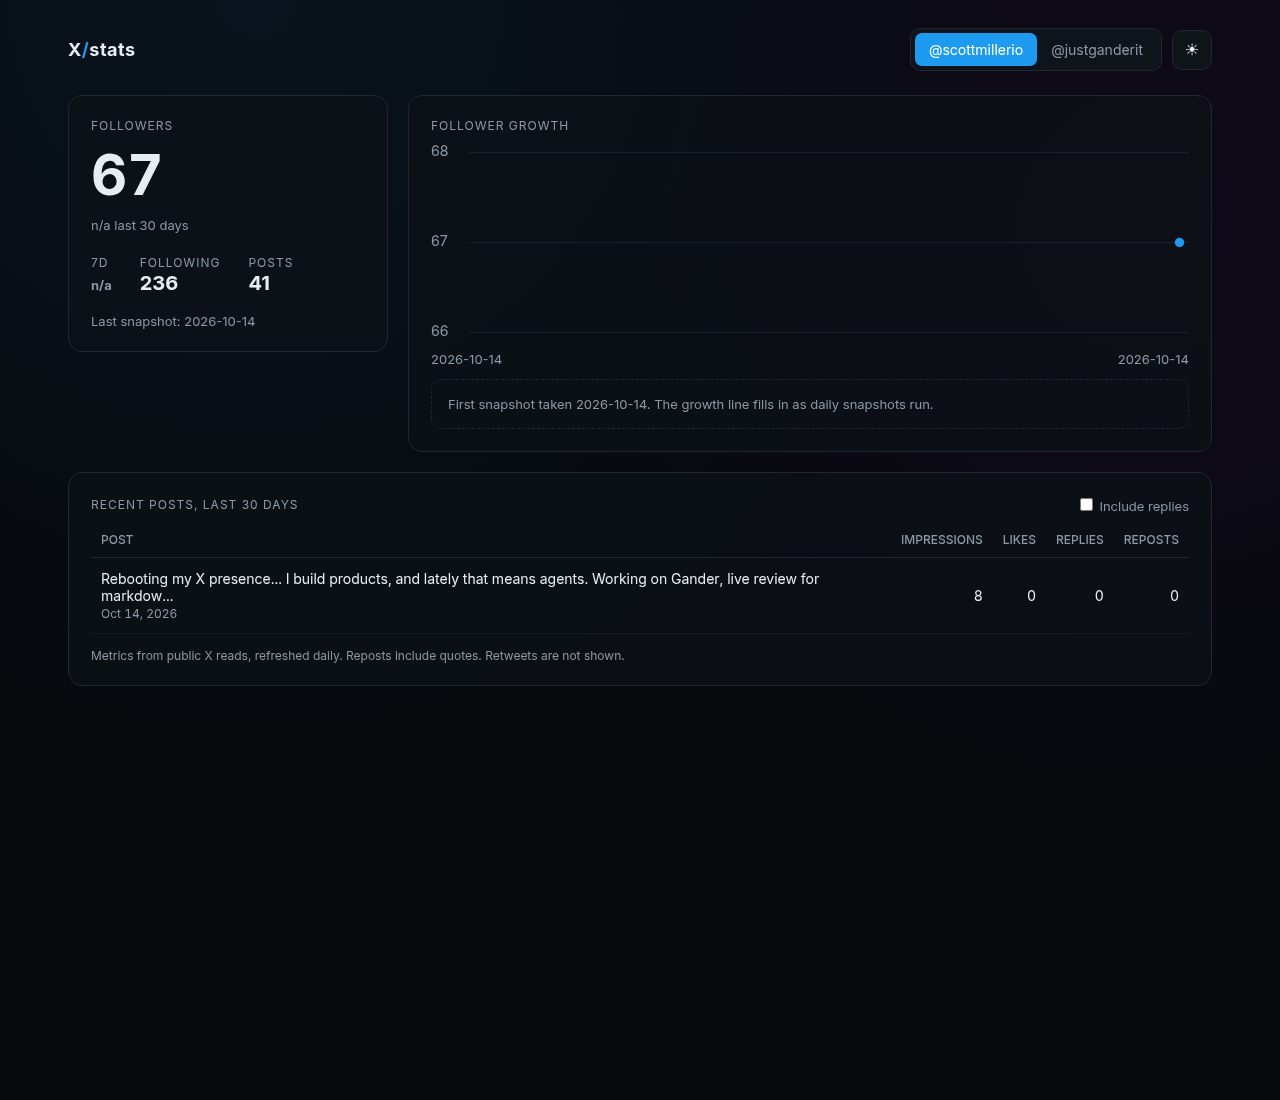
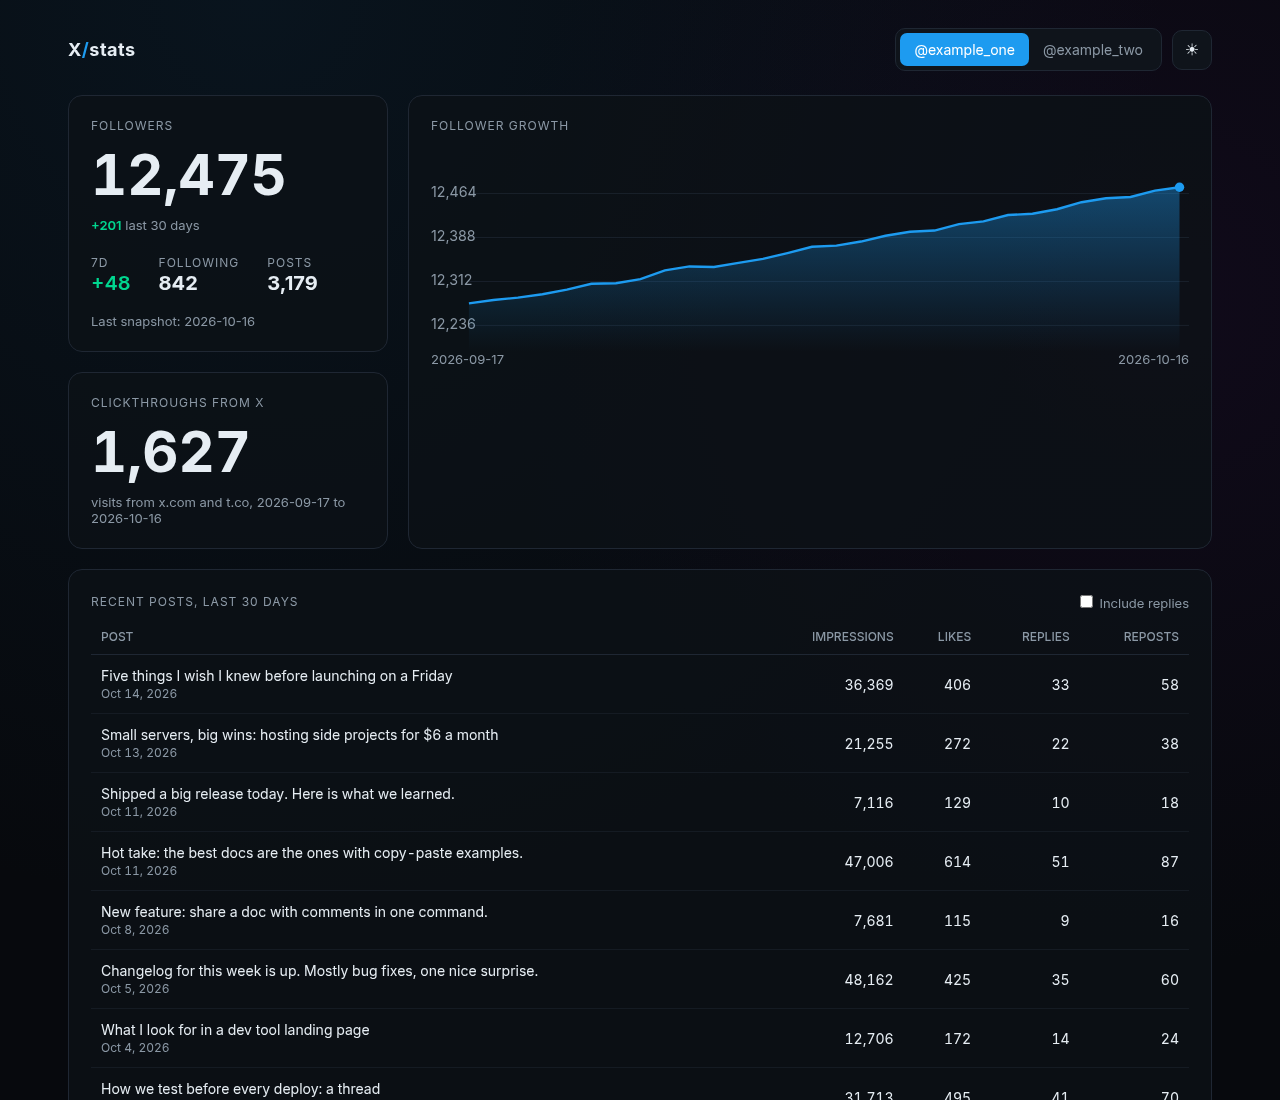
README: use fake demo data for examples and screenshots; add seed script

diff --git a/scripts/seed.py b/scripts/seed.py
@@ -1,0 +1,68 @@
+#!/usr/bin/env python3
+"""Generate fake snapshot files for demos and screenshots.
+
+Usage: scripts/seed.py OUTDIR [DAYS]
+Writes OUTDIR/YYYY-MM-DD.json for the last DAYS days (default 30), ending today.
+All accounts, numbers and post text are made up.
+"""
+import json, os, random, sys
+from datetime import date, datetime, timedelta, timezone
+
+out = sys.argv[1]
+days = int(sys.argv[2]) if len(sys.argv) > 2 else 30
+os.makedirs(out, exist_ok=True)
+random.seed(42)
+
+ACCOUNTS = {
+    "example_one": {"id": "1001", "name": "Example One", "followers": 12269, "following": 842, "tweets": 3150, "growth": 7},
+    "example_two": {"id": "1002", "name": "Example Two", "followers": 1840, "following": 310, "tweets": 620, "growth": 3},
+}
+TEXTS = [
+    "Shipped a big release today. Here is what we learned.",
+    "How we test before every deploy: a thread",
+    "New feature: share a doc with comments in one command.",
+    "What I look for in a dev tool landing page",
+    "Small servers, big wins: hosting side projects for $6 a month",
+    "Hot take: the best docs are the ones with copy-paste examples.",
+    "We cut our build time in half. The fix was boring.",
+    "Five things I wish I knew before launching on a Friday",
+    "@someone Agreed, that is the part most teams skip.",
+    "Changelog for this week is up. Mostly bug fixes, one nice surprise.",
+]
+
+today = date.today()
+start = today - timedelta(days=days - 1)
+# Posts spread over the window; metrics grow after posting, then flatten.
+posts = {h: [] for h in ACCOUNTS}
+pid = 1900000000000000000
+for h in ACCOUNTS:
+    for i in range(14):
+        pid += random.randint(10**12, 10**13)
+        when = datetime.combine(start + timedelta(days=random.randint(0, days - 1)), datetime.min.time(), timezone.utc) + timedelta(hours=random.randint(13, 23))
+        scale = 1.0 if h == "example_one" else 0.2
+        posts[h].append({"id": str(pid), "text": TEXTS[(i + len(h)) % len(TEXTS)], "created": when,
+                         "peak": int(random.randint(2000, 50000) * scale), "lr": random.uniform(0.008, 0.02)})
+
+for n in range(days):
+    d = start + timedelta(days=n)
+    end_of_day = datetime.combine(d, datetime.max.time(), timezone.utc)
+    bundle = {"date": d.isoformat(), "accounts": {}}
+    for h, a in ACCOUNTS.items():
+        followers = a["followers"] + a["growth"] * n + random.randint(-3, 6)
+        ps = []
+        for p in posts[h]:
+            if p["created"] > end_of_day:
+                continue
+            age = (end_of_day - p["created"]).days + 1
+            frac = min(1.0, 1 - 0.5 ** age)
+            imp = int(p["peak"] * frac)
+            ps.append({"id": p["id"], "text": p["text"], "created_at": p["created"].strftime("%Y-%m-%dT%H:%M:%S.000Z"),
+                       "public_metrics": {"impression_count": imp, "like_count": int(imp * p["lr"]),
+                                          "reply_count": int(imp * p["lr"] / 12), "retweet_count": int(imp * p["lr"] / 7), "quote_count": 0}})
+        bundle["accounts"][h] = {"user": {"id": a["id"], "username": h, "name": a["name"],
+                                          "public_metrics": {"followers_count": followers, "following_count": a["following"], "tweet_count": a["tweets"] + n}},
+                                 "posts": ps}
+    bundle["clickthroughs"] = {"visits": random.randint(20, 90)}
+    with open(os.path.join(out, d.isoformat() + ".json"), "w") as f:
+        json.dump(bundle, f)
+print(f"wrote {days} files to {out}")

diff --git a/README.md b/README.md
@@ -2,7 +2,7 @@
 
 A small, self-hosted X (Twitter) stats dashboard. Track follower growth and per-post metrics (impressions, likes, replies, reposts) for one or more accounts, with daily history and a per-post drill-in. Ships as a single Go binary.
 
-![Dashboard, dark theme](docs/dark-desktop.png)
+![Dashboard, dark theme, fake demo data](docs/dark-desktop.png)
 
 ## Features
 
@@ -59,6 +59,16 @@ bin/xstats serve  --db data/xstats.db --addr 127.0.0.1:8080
 ```
 
 Open http://127.0.0.1:8080. Handy URL options: `?theme=dark|light`, `?acct=<handle>`, `#post/<id>`.
+
+## Demo with fake data
+
+`scripts/seed.py` writes 30 days of made-up snapshots for two fictional accounts (`example_one`, `example_two`). The screenshots in this README come from it.
+
+```
+scripts/seed.py /tmp/seed 30
+bin/xstats ingest --db /tmp/demo.db /tmp/seed/*.json
+bin/xstats serve  --db /tmp/demo.db --addr 127.0.0.1:8080
+```
 
 ## Snapshot format
 
